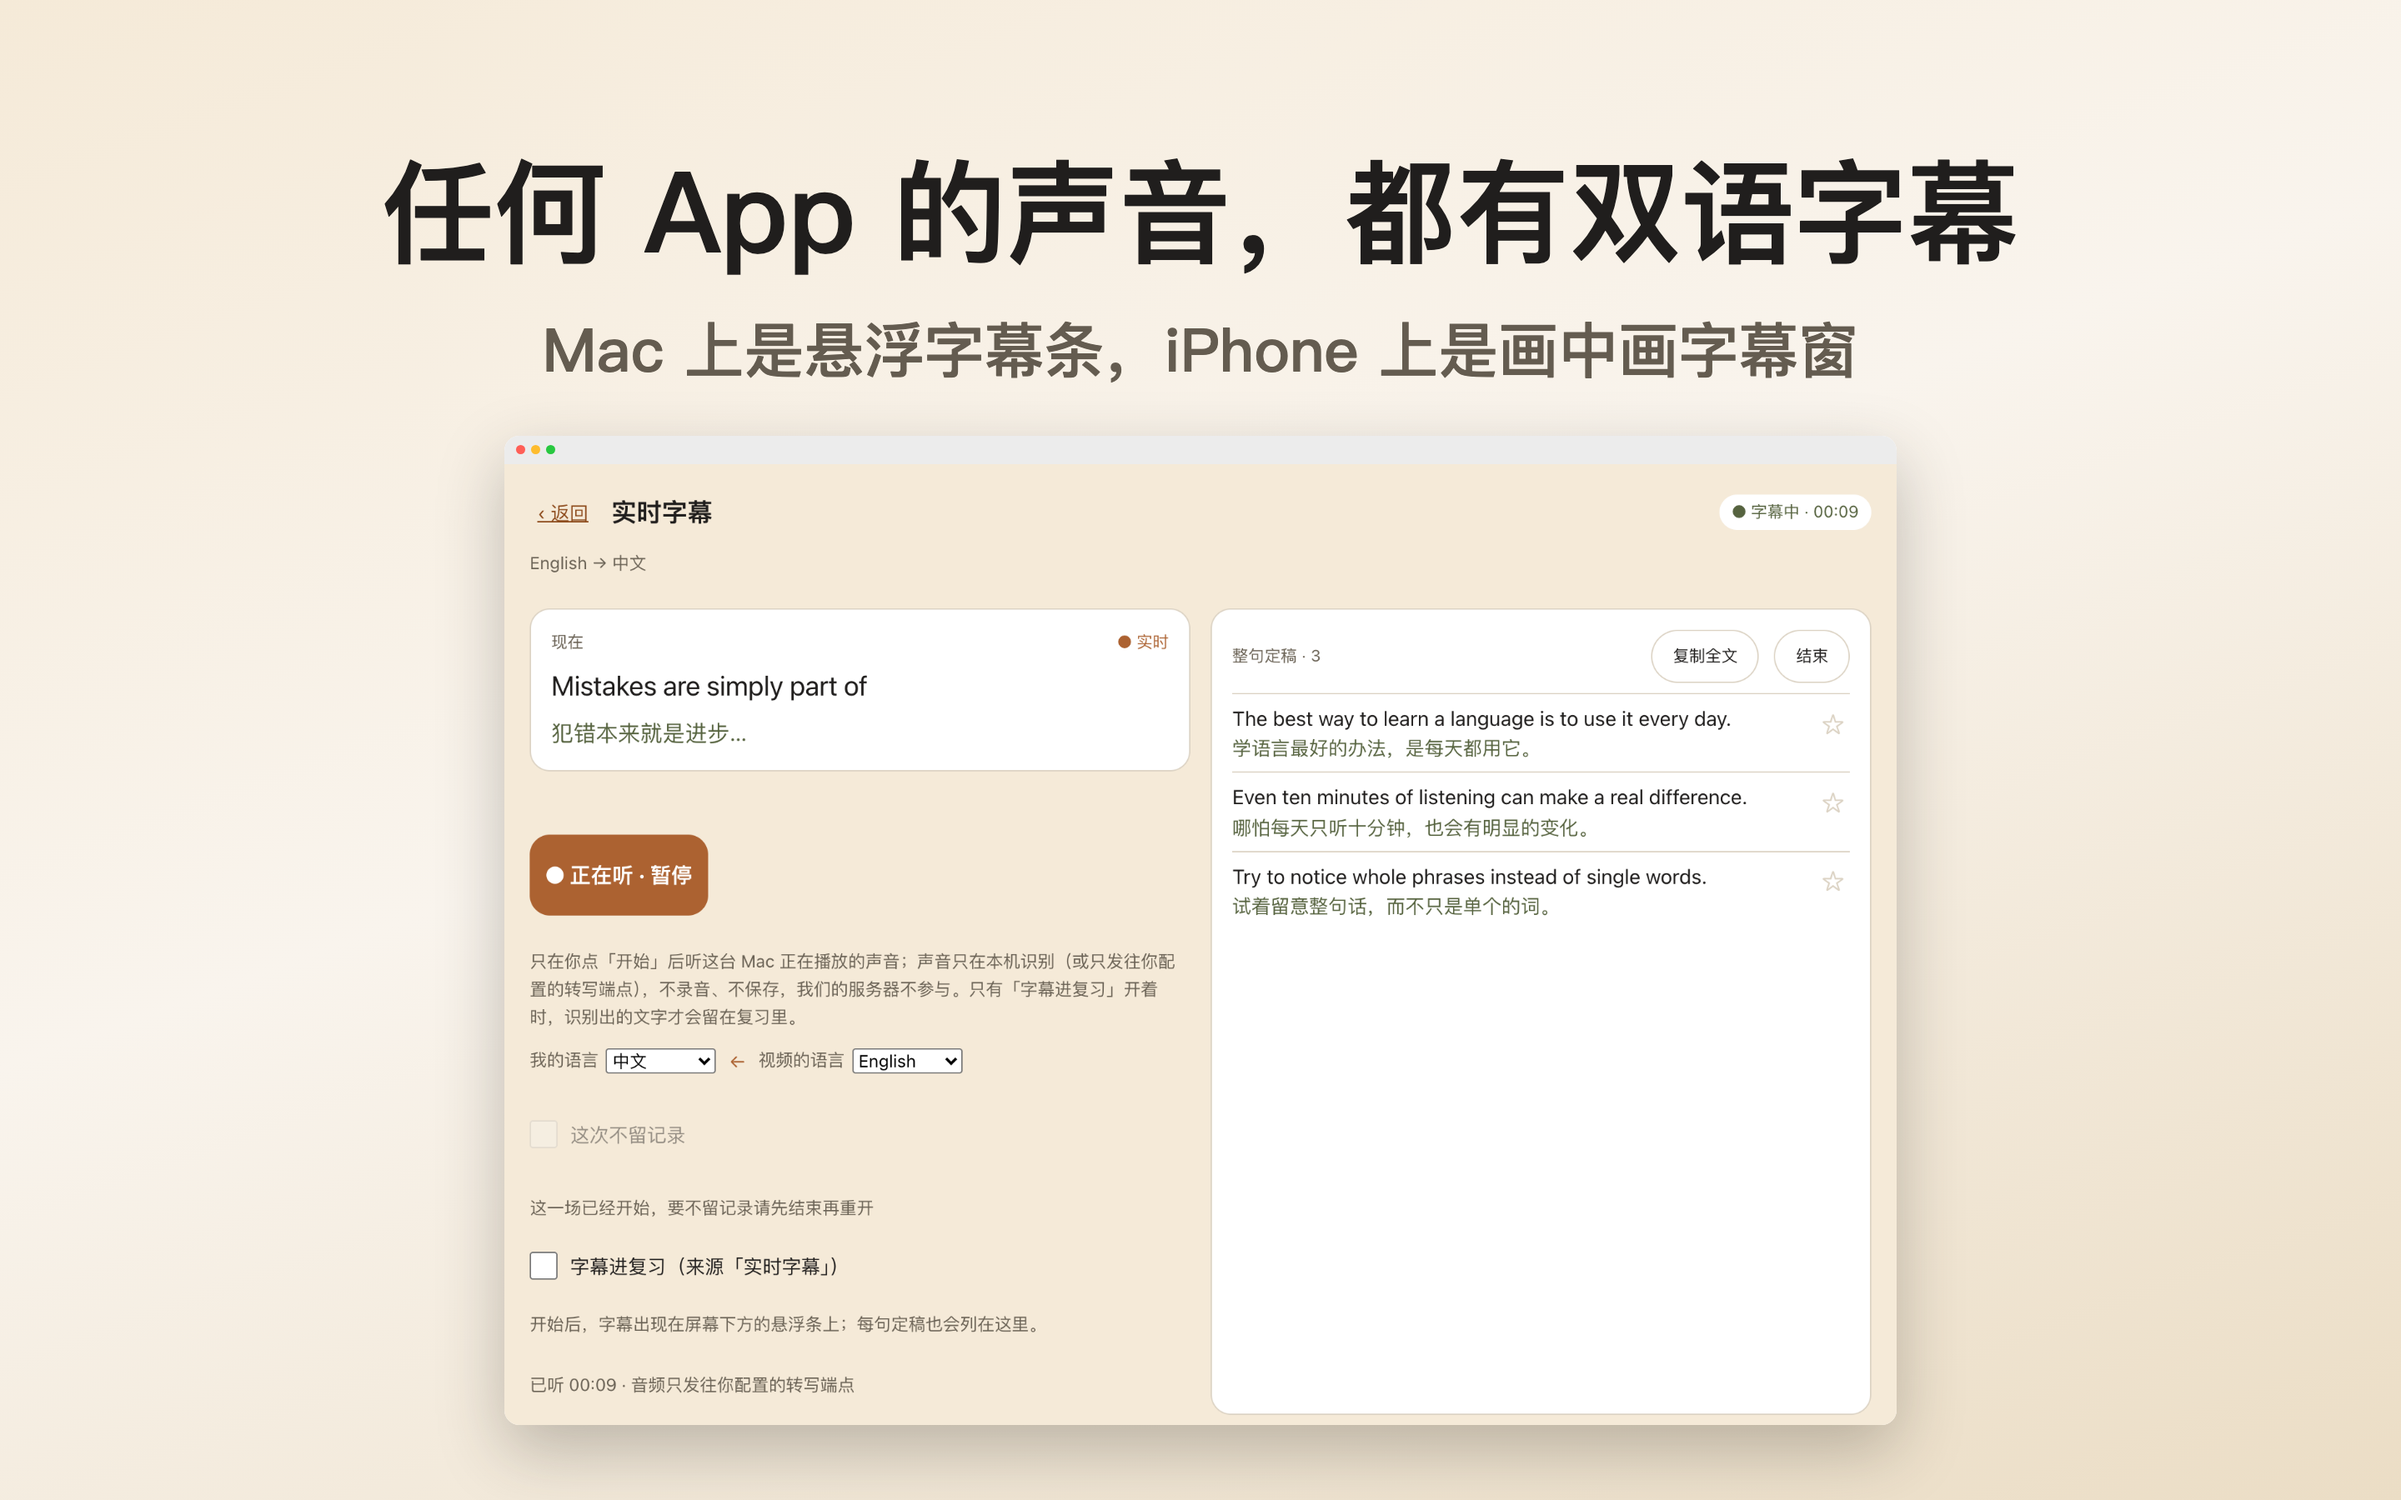
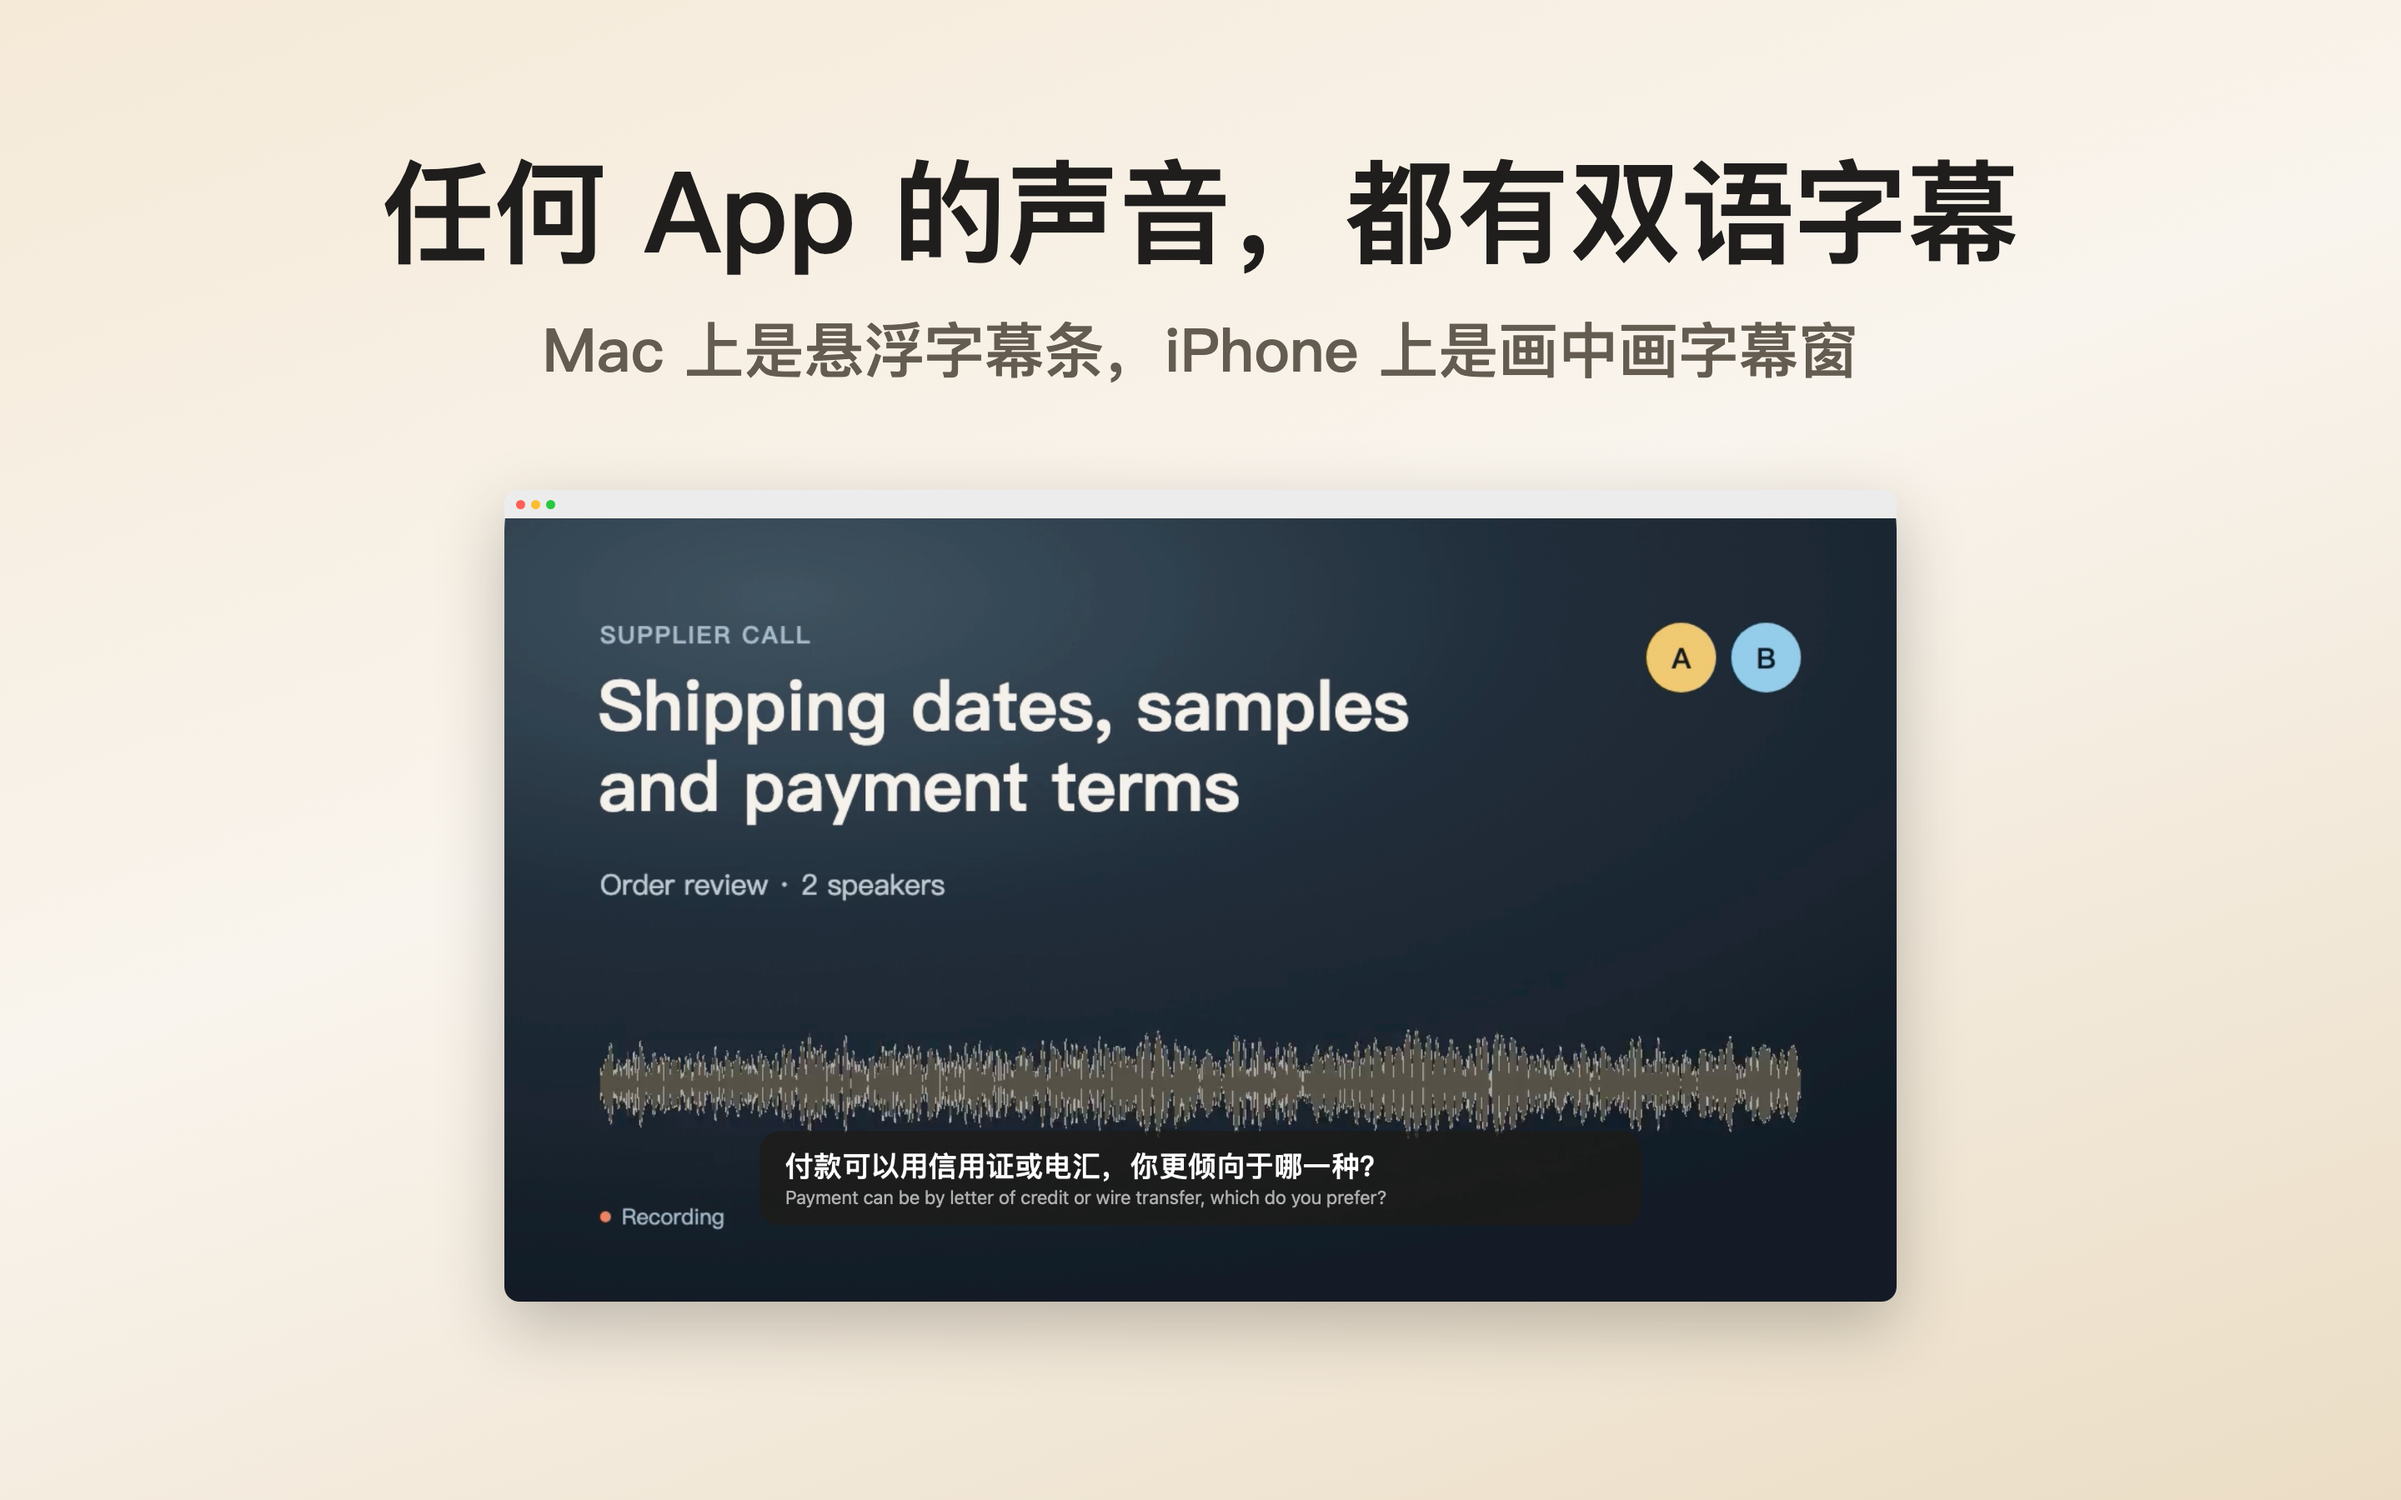
store-assets(1.11.0): Mac 帧换成真机拍的「视频 + 悬浮字幕条」；扩展商店预览图不再放 App 独有功能的帧
Mac 真机悬浮条
- 国际版帧 8（Mac 2880×1800 与网页 1280×800 画布）、中国版帧 6（Mac 画布）原来放的是 App 页面实拍，
  现在换成真机拍的「QuickTime 放视频 + 实时字幕悬浮条」：
  - 国际版中文商店：英文语音 → 中文字幕（zh-desk-subsbar.png）
  - 国际版英文商店：中文语音 → 英文字幕（en-desk-subsbar.png）
  - 中国版：中国版调试包拍（cn-desk-subsbar.png）
- 拍法：从 main 出 macOS Debug 包（设备内置转写 + 真翻译引擎），QuickTime 循环放单语对话视频；
  QuickTime 窗口与字幕条面板分别 screencapture -l，按两者真实屏幕坐标合成，裁掉上下黑边 —— 不动用户屏幕上的窗口前后顺序
- 手机 / 平板画布的帧 8 仍是 App 页面实拍（iPhone 画中画真机图待拍）

扩展商店预览图
- #284 的 amo-listing.js --previews 取 ORDER_GLOBAL，含帧 8 实时字幕 / 9 对话听译；这两样是 App 独有，
  放进 Firefox 附加组件页等于宣传装扩展得不到的东西（AMO 还没真传，线上无误）
- asc-media.js 加 APP_ONLY_GLOBAL = [8, 9]；amo-listing.js 按它剔除 ⇒ 干运行：线上 6 张 → 换 7 张（1, 2, 7, 3, 4, 5, 6）
- 门禁：amo-listing.js 必须读 APP_ONLY_GLOBAL、APP_ONLY 帧必须在 ORDER_GLOBAL 里；旧代码上跑是红，修后绿

npm test 1715 / 0

Claude-Session: https://claude.ai/code/session_01Uvoa7SCxLWwJVnUBjjHPUE

diff --git a/scripts/amo-listing.js b/scripts/amo-listing.js
@@ -83,8 +83,12 @@ function visible(html) {
 function previewFiles() {
   const src = fs.readFileSync(path.join(ROOT, 'scripts', 'asc-media.js'), 'utf8');
   const m = src.match(/const ORDER_GLOBAL = \[([^\]]*)\]/);
-  if (!m) { console.error('✗ scripts/asc-media.js 里找不到 ORDER_GLOBAL'); process.exit(1); }
-  return m[1].split(',').map((s) => path.join(ROOT, 'store-assets', `en-web-${s.trim()}.png`));
+  const a = src.match(/const APP_ONLY_GLOBAL = \[([^\]]*)\]/);
+  if (!m || !a) { console.error('✗ scripts/asc-media.js 里找不到 ORDER_GLOBAL / APP_ONLY_GLOBAL'); process.exit(1); }
+  // 去掉 App 独有功能的帧：Firefox 附加组件的页面上不该出现装扩展得不到的东西
+  const appOnly = new Set(a[1].split(',').map((s) => s.trim()));
+  return m[1].split(',').map((s) => s.trim()).filter((n) => !appOnly.has(n))
+    .map((n) => path.join(ROOT, 'store-assets', `en-web-${n}.png`));
 }
 
 async function previews(apply, id, get) {
@@ -94,7 +98,7 @@ async function previews(apply, id, get) {
   const before = await get();
   const old = before.previews || [];
   console.log(`\nAMO ${before.slug || id} · previews`);
-  console.log(`  线上 ${old.length} 张 → 换成仓库 ${files.length} 张（顺序同 App Store）`);
+  console.log(`  线上 ${old.length} 张 → 换成仓库 ${files.length} 张（App Store 的顺序、去掉 App 独有帧）`);
   files.forEach((f, i) => console.log(`    ${i}  ${path.basename(f)}`));
   if (!apply) { console.log('\n（干运行。加 --apply 才真换）'); return; }
 
@@ -125,7 +129,7 @@ async function previews(apply, id, get) {
     console.error(`\n✗ 回读不符：线上 ${after.length} 张、按 position 排是 ${JSON.stringify(ordered)}，应为 ${JSON.stringify(created)}`);
     process.exit(1);
   }
-  console.log(`\n✓ 预览图已换并回读确认：${after.length} 张，顺序同 App Store`);
+  console.log(`\n✓ 预览图已换并回读确认：${after.length} 张，App Store 的顺序、去掉 App 独有帧`);
 }
 
 async function main() {

diff --git a/screenshots-cn/src/scene.html b/screenshots-cn/src/scene.html
@@ -86,7 +86,8 @@ const ARTICLE = portrait ? (W >= 1500 ? '../../store-assets/src/assets/tablet-ar
 const DOCS = portrait ? (W >= 1500 ? '../../store-assets/src/assets/zh-tablet-docs.png' : '../../store-assets/src/assets/zh-phone-docs.png') : '../../store-assets/src/assets/zh-desk-docs.png';
 const APP = { '6': 'subs', '7': 'listen' };
 const appShot = (k) => `assets/cn-${portrait ? (W >= 1500 ? 'tablet' : 'phone') : 'desk'}-${k}.png`;
-if (APP[f]) stage.innerHTML = portrait ? (W >= 1500 ? tablet(appShot(APP[f])) : phone(appShot(APP[f]))) : mac(appShot(APP[f]));
+// 帧 6 的 Mac 画布放中国版调试包真机拍的「视频 + 悬浮字幕条」合成图（cn-desk-subsbar）
+if (APP[f]) stage.innerHTML = portrait ? (W >= 1500 ? tablet(appShot(APP[f])) : phone(appShot(APP[f]))) : mac(appShot(f === '6' ? 'subsbar' : APP[f]));
 else if (f === '1') stage.innerHTML = portrait ? (W >= 1500 ? tablet(ARTICLE) : phone(ARTICLE)) : mac(ARTICLE);
 else if (f === '5') stage.innerHTML = portrait ? (W >= 1500 ? tablet(DOCS) : phone(DOCS)) : mac(DOCS);
 else if (portrait && W >= 1500) stage.innerHTML = tablet(TAB[f]);

diff --git a/test/asc-media-plan.test.js b/test/asc-media-plan.test.js
@@ -71,6 +71,15 @@ describe('asc-media 上传清单 — 与渲染脚本、aso.md 对得上', () => 
     eq(missing.length, 0, `缺 ${missing.join(', ')} —— 发版当天传 AMO 时才会发现`);
   });
 
+  test('扩展商店的预览图不放 App 独有功能的帧（amo-listing.js 按 APP_ONLY_GLOBAL 剔除）', () => {
+    const appOnly = order('APP_ONLY_GLOBAL');
+    ok(appOnly.length > 0, 'APP_ONLY_GLOBAL 是空的');
+    const all = new Set(order('ORDER_GLOBAL'));
+    for (const n of appOnly) ok(all.has(n), `APP_ONLY_GLOBAL 里的 ${n} 不在 ORDER_GLOBAL 里 —— 帧号写错了`);
+    ok(/APP_ONLY_GLOBAL/.test(read('scripts/amo-listing.js')),
+      'amo-listing.js 没有读 APP_ONLY_GLOBAL —— Firefox 附加组件页会宣传装扩展得不到的实时字幕 / 对话听译');
+  });
+
   test('每条线的 id 唯一（--only 靠它点名）', () => {
     const ids = LINES.map((x) => x.id);
     eq(new Set(ids).size, ids.length, `有重复的 id：${ids.filter((x, i) => ids.indexOf(x) !== i).join(', ')}`);

diff --git a/scripts/asc-media.js b/scripts/asc-media.js
@@ -72,6 +72,9 @@ const c = (n) => path.join(ROOT, 'screenshots-cn', n);
 // 以前写死「前 5 张 / 前 4 张」，于是 1.7 的一键配置帧、1.10 的文档帧渲染出来了却从没上过商店。
 const ORDER_GLOBAL = [1, 8, 9, 2, 7, 3, 4, 5, 6];
 const ORDER_CN = [1, 6, 7, 5, 3, 2, 4];
+// App 独有功能的帧（8 实时字幕、9 对话听译）：只上 App Store。扩展商店（AMO 预览图、CWS 截图）不放 ——
+// 装 Firefox / Chrome 扩展的人得不到这两样，放上去就是在宣传用户拿不到的东西。scripts/amo-listing.js 读这一行。
+const APP_ONLY_GLOBAL = [8, 9];
 const frames = (order, p) => order.map((i) => p(`${i}`));
 // 预览视频放仓库里（原来在 /tmp，重启即丢，1.10 那轮已经找不回源文件）。中国版沿用中文那两条 —— 画面里没有境外站点。
 const v = (n) => path.join(ROOT, "store-assets", "video", n);

diff --git a/store-assets/src/scene.html b/store-assets/src/scene.html
@@ -119,7 +119,9 @@ else if (f === '3') stage.innerHTML = device(own('card'));
 else if (f === '4') stage.innerHTML = device(own('stats'));
 else if (f === '6') stage.innerHTML = device(own('onboard'));
 else if (f === '7') stage.innerHTML = device(own('docs'));
-else if (f === '8') stage.innerHTML = device(own('subs'));
+// 帧 8 在 Mac / 网页画布上放真机拍的「视频 + 悬浮字幕条」（QuickTime 窗口与字幕条面板分别截、按屏幕坐标合成）；
+// 手机 / 平板画布仍是 App 页面实拍，iPhone 画中画真机图拍到后再换。
+else if (f === '8') stage.innerHTML = device(own(tier === 'desk' ? 'subsbar' : 'subs'));
 else if (f === '9') stage.innerHTML = device(own('listen'));
 else if (f === '5') {
   // 跨设备闭环。横版：Mac 上读 → 手机上复习（手机是这一帧的主语，不是错放）。
